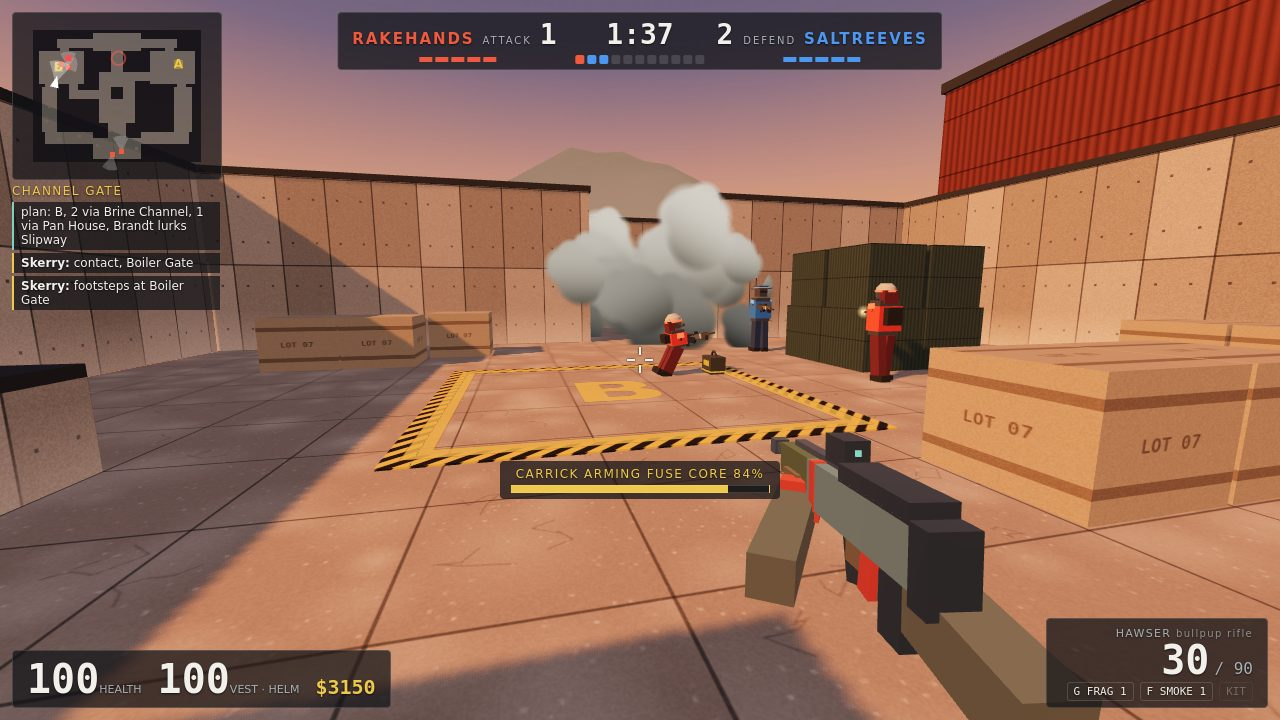
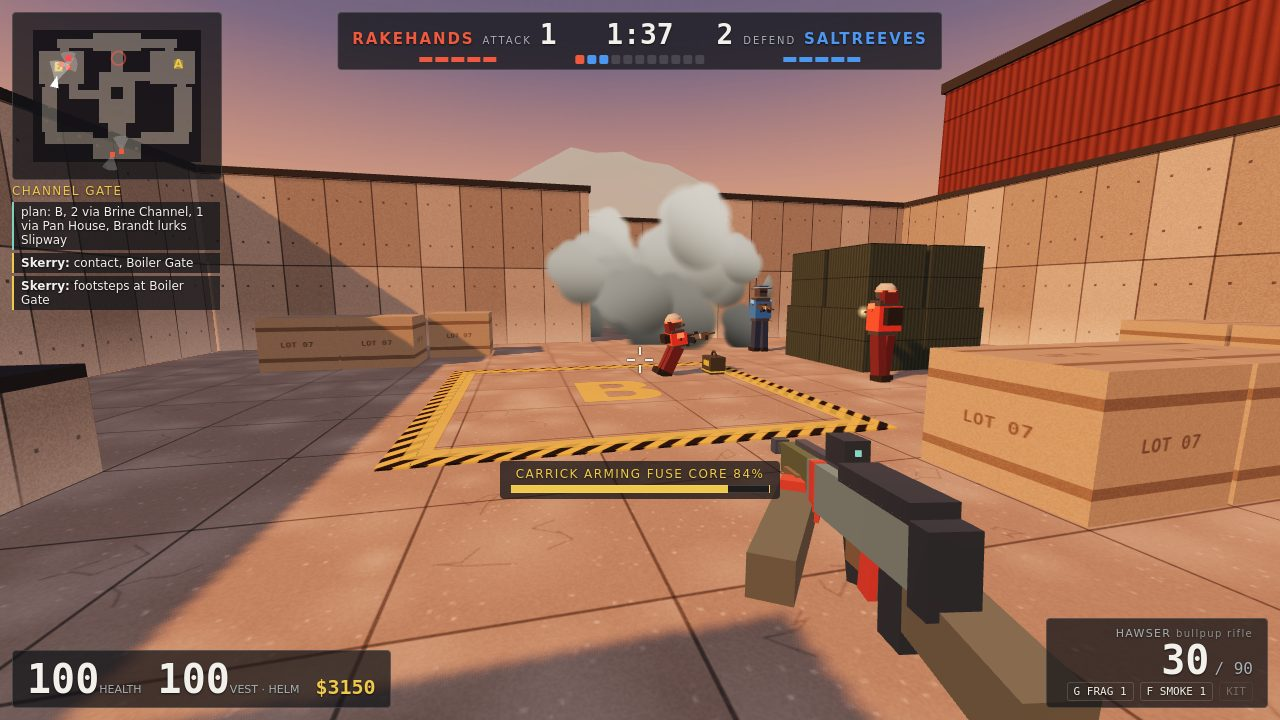
Salt heaps read as salt: a paler self-glow so the heap over B is light against the dusk band
level.js salt emissive 0x44403a -> 0x8c887e (same bytes). Retake: shot 3's heap turns from a
brown hill into a pale salt pile above the wall line and keeps its lumpy outline; the cover's
sky is unchanged. Fresh screenshots.

Changed region(s): [[0.4062, 0.1833, 0.5625, 0.3056]]

diff --git a/game/src/render/level.js b/game/src/render/level.js
@@ -147,7 +147,7 @@ export function buildLevel(map, tex) {
   }
 
   // Beyond the walls, never collided.
-  const salt = std({ color: 0xe8e4d8, emissive: 0x44403a, roughness: 1 }), steel = std({ color: PALETTE.steel, metalness: 0.4, roughness: 0.6 }), oxide = std({ color: 0x8c4c3a });
+  const salt = std({ color: 0xe8e4d8, emissive: 0x8c887e, roughness: 1 }), steel = std({ color: PALETTE.steel, metalness: 0.4, roughness: 0.6 }), oxide = std({ color: 0x8c4c3a });
   const add = (geo, mat, x, y, z) => { const m = new THREE.Mesh(geo, mat); m.position.set(x, y, z); m.castShadow = true; group.add(m); };
   // Salt heaps: a lathed slump (round crown, spread toe), lumpy in angle so the lathe seam stays closed.
   const heap = (r, h) => {
